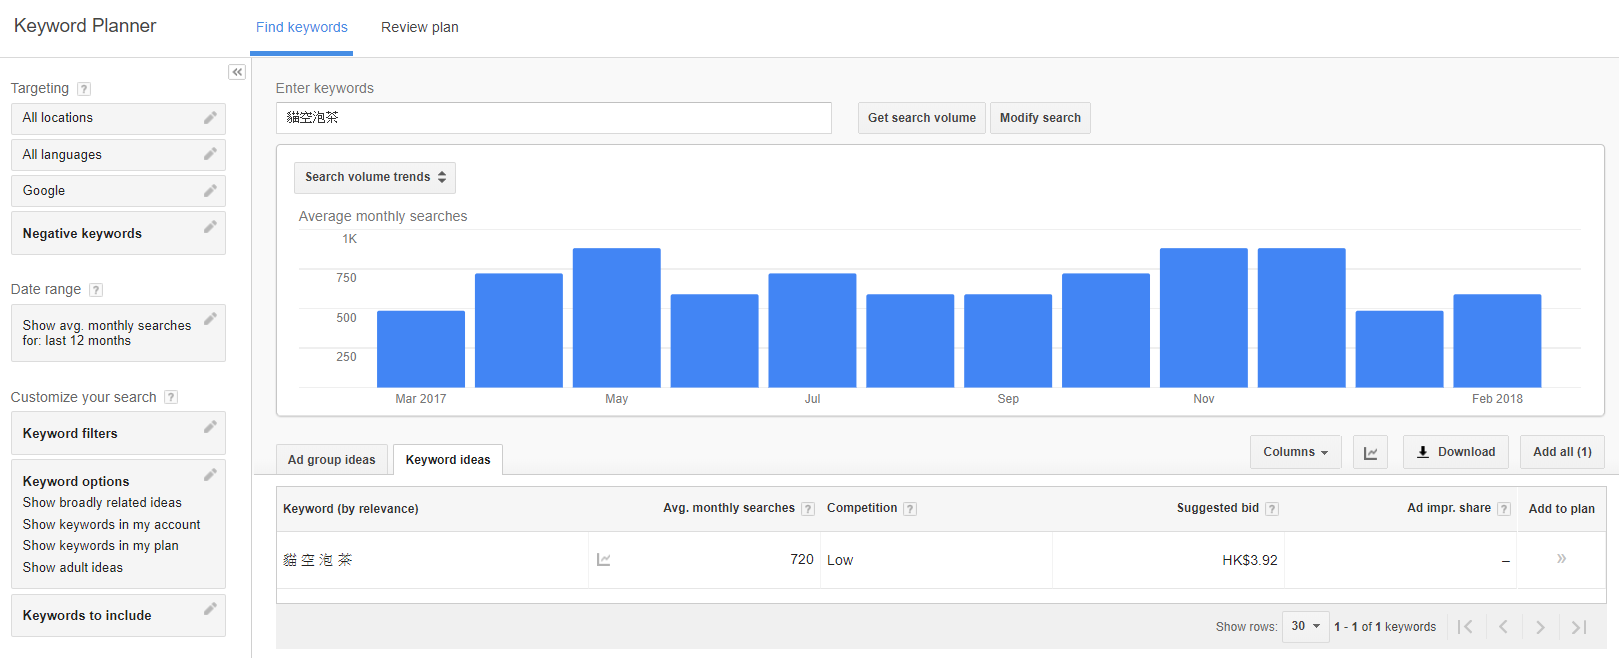
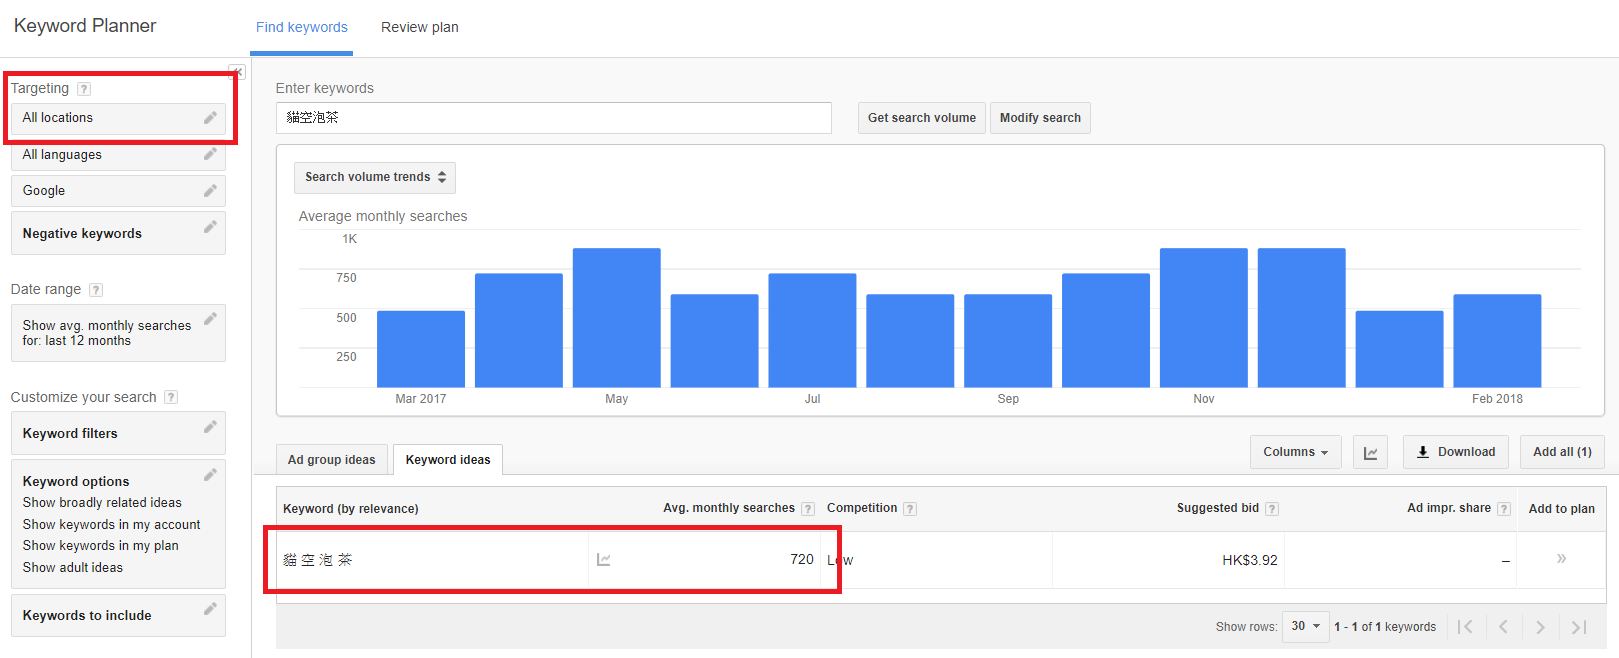
v5

diff --git a/keywordtoolio/search-volume-issue.html b/keywordtoolio/search-volume-issue.html
@@ -10,6 +10,6 @@ Keywordtool.io (Keyword: 貓空泡茶, search volume: 720)
 <p><img src="https://jennytheegg.github.io/keywordtoolio/hk.png" /></p>
 
 <p><strong>Global search volume from Google Keyword Planner</strong></p>
-<p><img src="https://jennytheegg.github.io/keywordtoolio/tw.png" /></p>
+<p><img src="https://jennytheegg.github.io/keywordtoolio/all.png" /></p>
 </body>
 </html>
